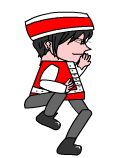
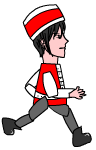
update

diff --git a/src/js/Steve.js b/src/js/Steve.js
@@ -7,24 +7,13 @@ GAME.Steve = function() {
         PIXI.Texture.fromImage("img/animation/pepperRun/pepperRun0001.png"),
         PIXI.Texture.fromImage("img/animation/pepperRun/pepperRun0002.png"),
         PIXI.Texture.fromImage("img/animation/pepperRun/pepperRun0003.png"),
-        PIXI.Texture.fromImage("img/animation/pepperRun/pepperRun0004.png"),
-        PIXI.Texture.fromImage("img/animation/pepperRun/pepperRun0005.png"),
-        PIXI.Texture.fromImage("img/animation/pepperRun/pepperRun0006.png"),
-        PIXI.Texture.fromImage("img/animation/pepperRun/pepperRun0007.png"),
-        PIXI.Texture.fromImage("img/animation/pepperRun/pepperRun0008.png"),
-        PIXI.Texture.fromImage("img/animation/pepperRun/pepperRun0009.png"),
-        PIXI.Texture.fromImage("img/animation/pepperRun/pepperRun0010.png"),
-        PIXI.Texture.fromImage("img/animation/pepperRun/pepperRun0011.png"),
-        PIXI.Texture.fromImage("img/animation/pepperRun/pepperRun0012.png"),
-        PIXI.Texture.fromImage("img/animation/pepperRun/pepperRun0013.png")
+        PIXI.Texture.fromImage("img/animation/pepperRun/pepperRun0004.png")
     ];
 
     //this.flyingFrames = [PIXI.Texture.fromFrame("characterFLATflying_01.png"), PIXI.Texture.fromFrame("characterFLATflying_02.png"), PIXI.Texture.fromFrame("characterFLATflying_03.png")];
 
     this.flyingFrames = [
-        PIXI.Texture.fromImage("img/animation/pepperFly/pepperFly0001.png"),
-        PIXI.Texture.fromImage("img/animation/pepperFly/pepperFly0002.png"),
-        PIXI.Texture.fromImage("img/animation/pepperFly/pepperFly0003.png")
+        PIXI.Texture.fromImage("img/animation/pepperFly/pepperFly0001.png")
     ];
 
     var textureDie16 = PIXI.Texture.fromImage("img/animation/pepperDie/pepperDie0016.png");

diff --git a/src/js/Runner.js b/src/js/Runner.js
@@ -203,21 +203,11 @@
             "img/animation/pepperRun/pepperRun0002.png",
             "img/animation/pepperRun/pepperRun0003.png",
             "img/animation/pepperRun/pepperRun0004.png",
-            "img/animation/pepperRun/pepperRun0005.png",
-            "img/animation/pepperRun/pepperRun0006.png",
-            "img/animation/pepperRun/pepperRun0007.png",
-            "img/animation/pepperRun/pepperRun0008.png",
-            "img/animation/pepperRun/pepperRun0009.png",
-            "img/animation/pepperRun/pepperRun0010.png",
-            "img/animation/pepperRun/pepperRun0011.png",
-            "img/animation/pepperRun/pepperRun0012.png",
-            "img/animation/pepperRun/pepperRun0013.png",
+ 
       
 
 
             "img/animation/pepperFly/pepperFly0001.png",
-            "img/animation/pepperFly/pepperFly0002.png",
-            "img/animation/pepperFly/pepperFly0003.png",
            
 
             "img/animation/pepperDie/pepperDie0001.png",
